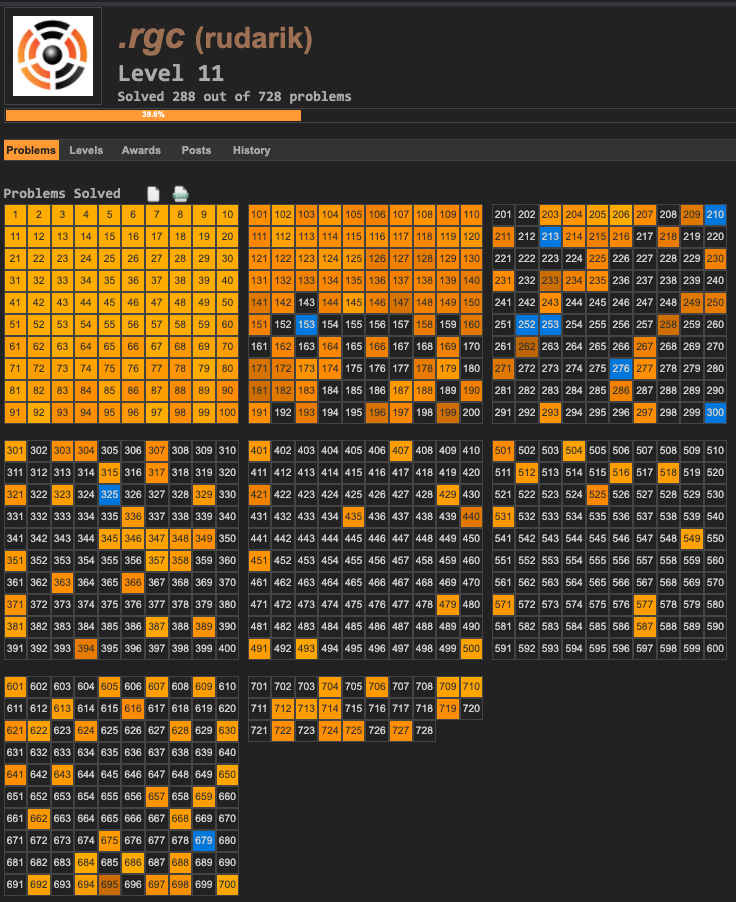
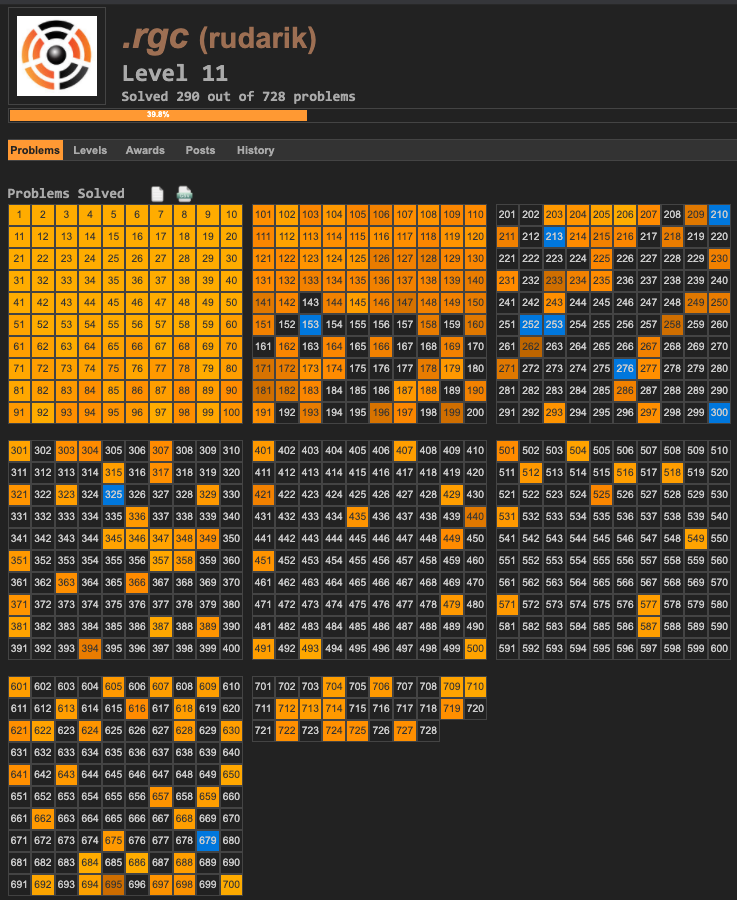
Solved 618 and 449

Changed region(s): [[0.0, 0.0, 1.0, 0.9956], [0.3125, 0.1556, 0.375, 0.1867], [0.25, 0.1556, 0.2812, 0.1867]]

diff --git a/README.md b/README.md
@@ -173,6 +173,9 @@ Problem 182: "RSA encryption"
 * [Sieve of Eratosthenes](https://en.wikipedia.org/wiki/Sieve_of_Eratosthenes)
 Problem 196: "Prime triplets"
 
+* [Solid of Revolution](https://en.wikipedia.org/wiki/Solid_of_revolution)
+Problem 449: "Chocolate covered candy"
+
 * [Square Pyramidal Number](https://en.wikipedia.org/wiki/Square_pyramidal_number)
 Problem 401: "Sum of squares of divisors"
 
